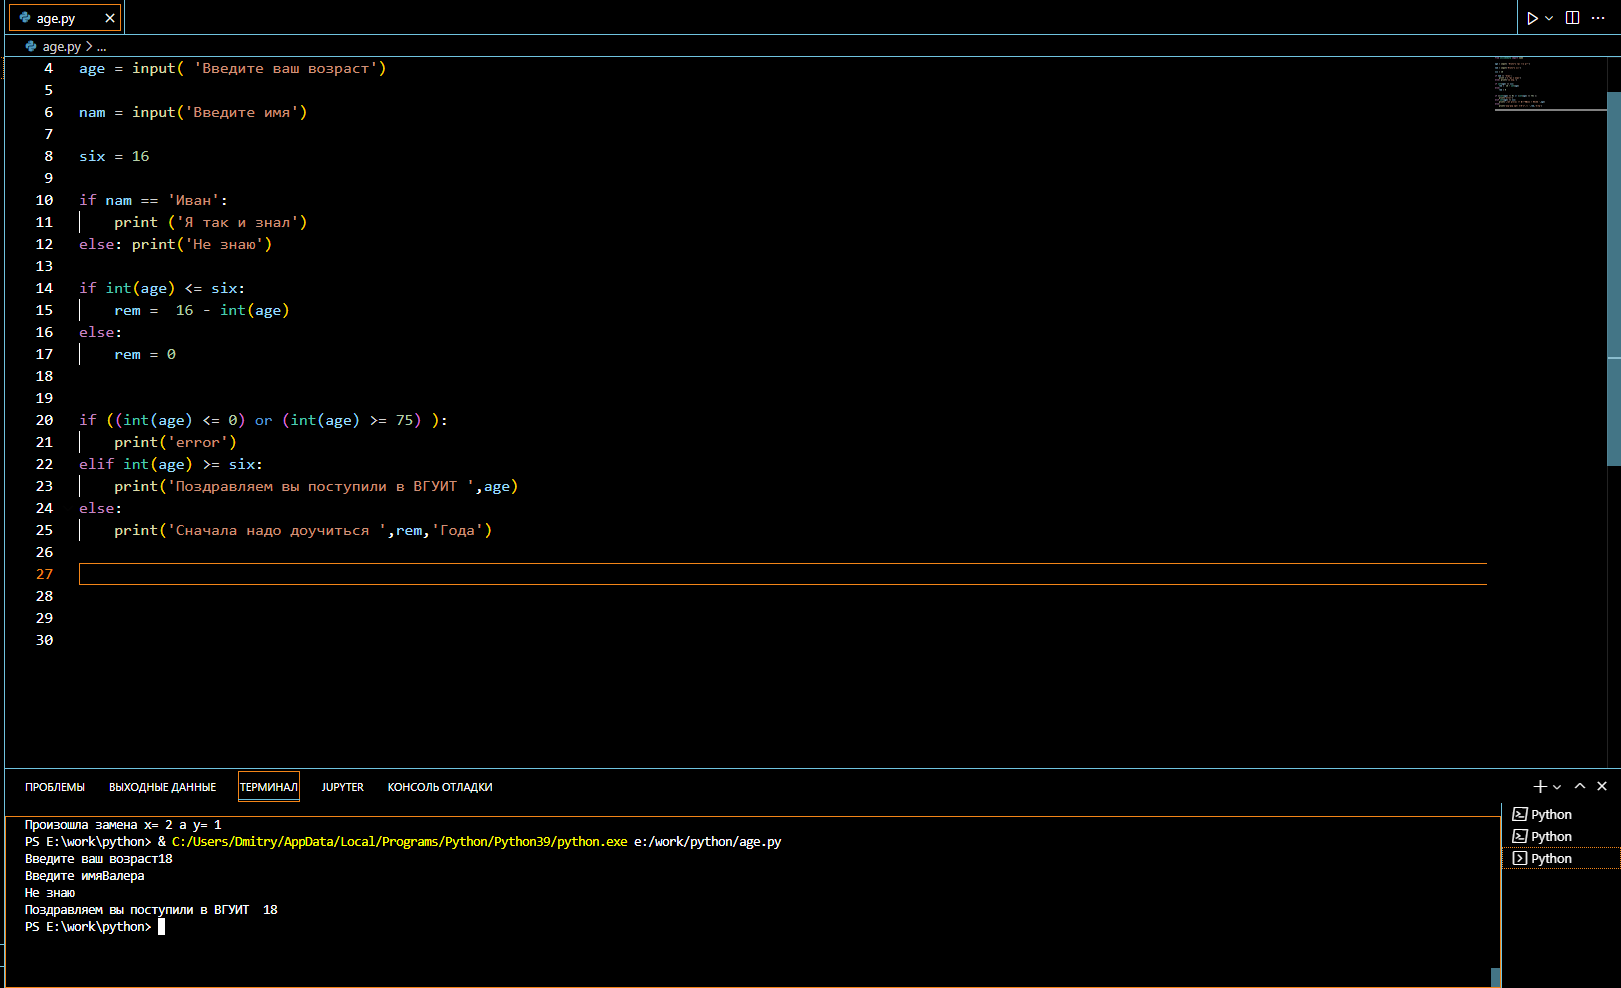
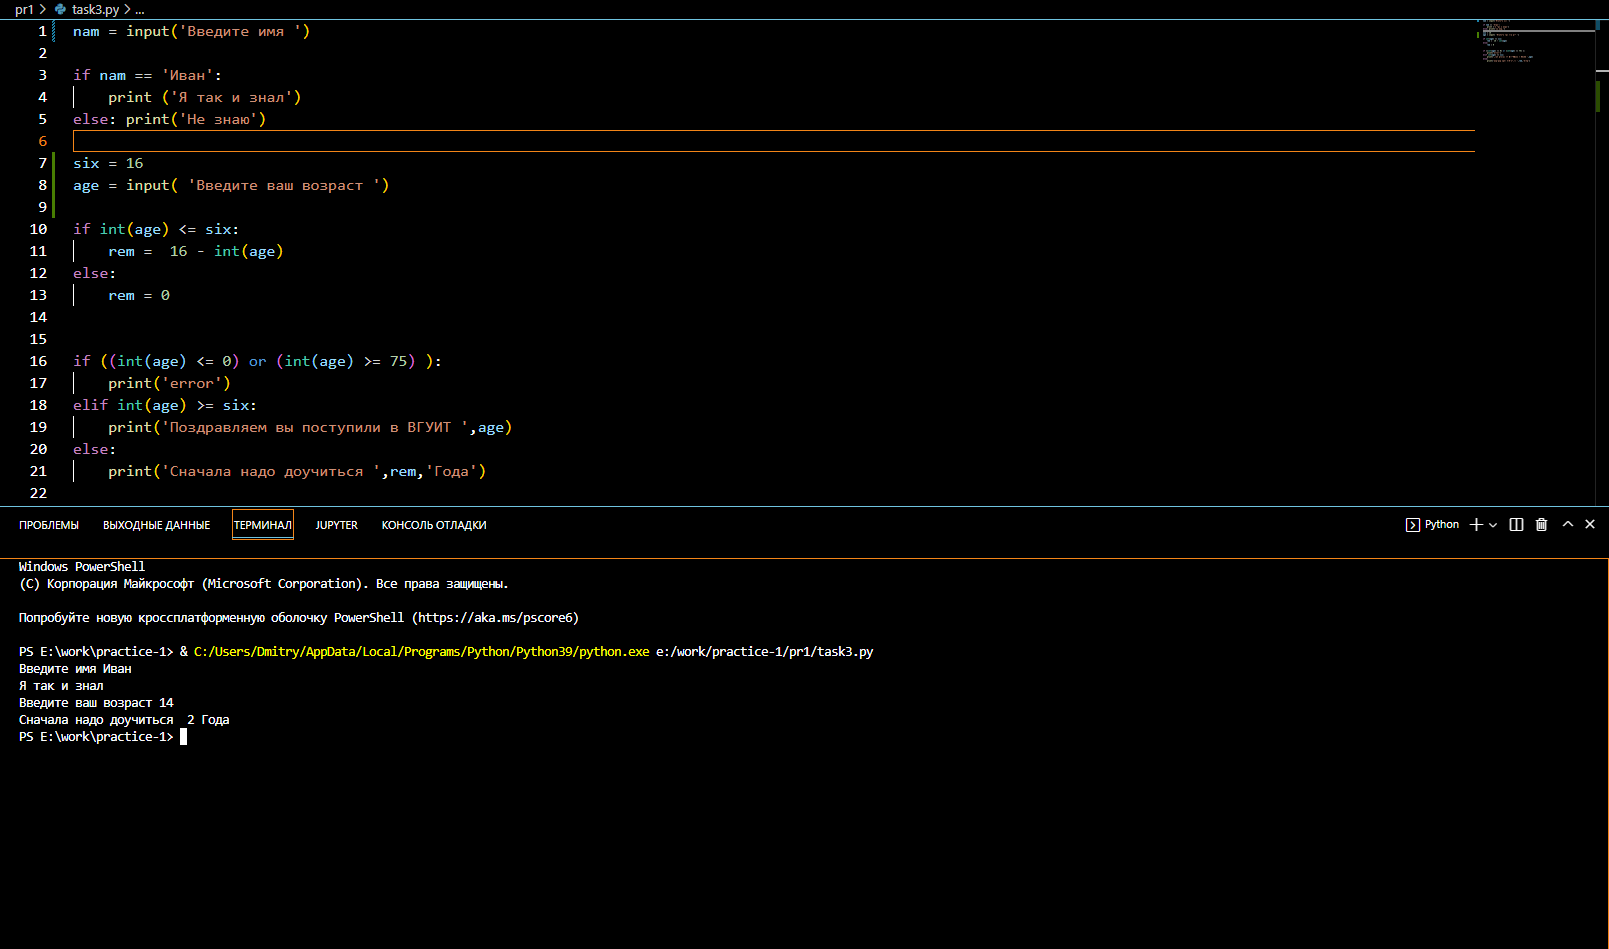
fix

diff --git a/pr1/task3.py b/pr1/task3.py
@@ -1,15 +1,11 @@
-from unicodedata import name
-
-
-age = input( 'Введите ваш возраст')
-
-nam = input('Введите имя')
-
-six = 16
+nam = input('Введите имя ')
 
 if nam == 'Иван':
     print ('Я так и знал')
 else: print('Не знаю')
+
+six = 16
+age = input( 'Введите ваш возраст ')
 
 if int(age) <= six:
     rem =  16 - int(age) 
